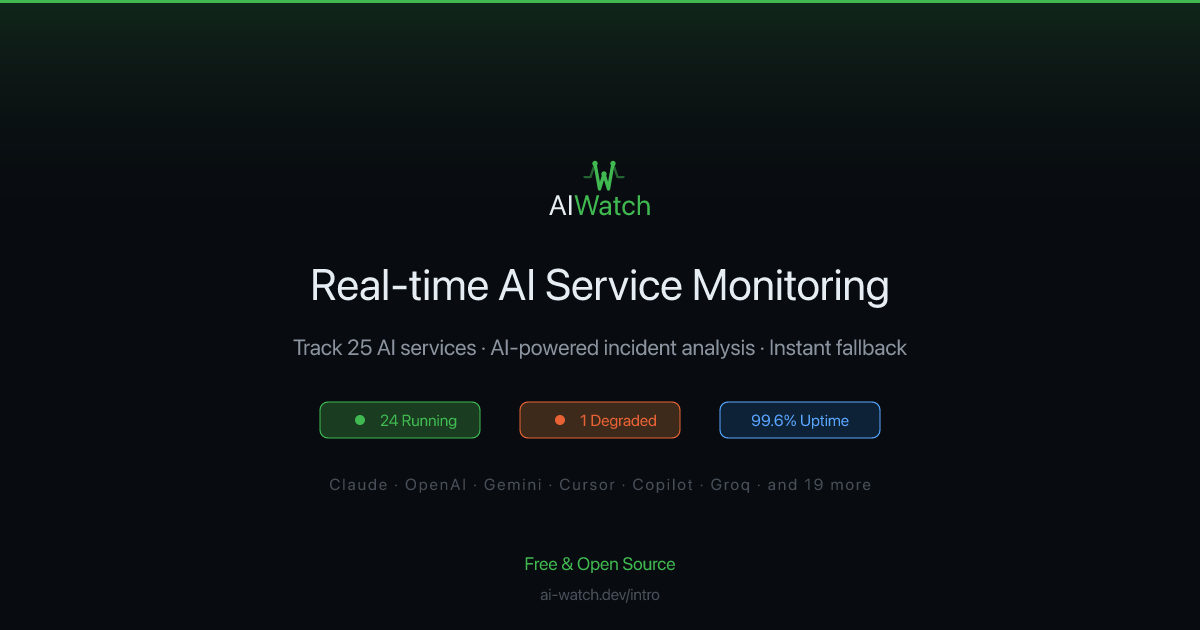
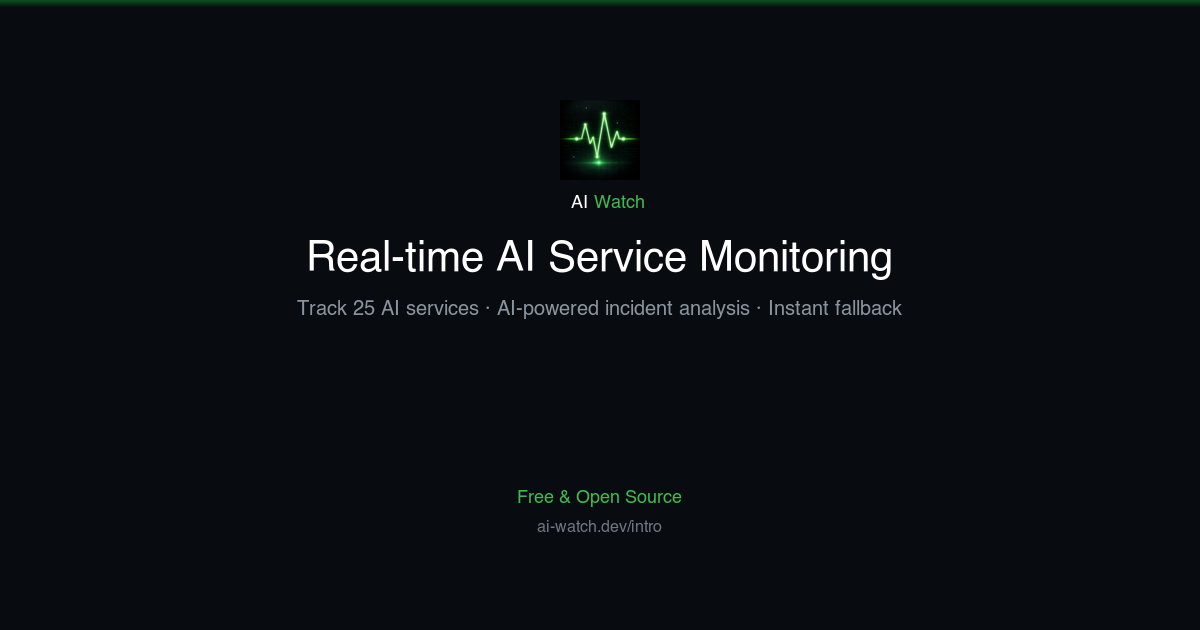
feat: unify OG image to og-intro.png + add GitHub social preview (#125)
- Unify og:image/twitter:image to og-intro.png (both dashboard & landing)
- Delete unused og-image.png
- Regenerate og-intro.png with new ECG waveform icon
- Add docs/social-preview.png (1280×640) for GitHub repo settings

refs #125

diff --git a/index.html b/index.html
@@ -14,9 +14,9 @@
     <meta property="og:url" content="https://ai-watch.dev/" />
     <meta property="og:title" content="AIWatch — 25개 AI 서비스 실시간 모니터링" />
     <meta property="og:description" content="Claude, ChatGPT, Gemini, Cursor 등 25개 AI 서비스 상태를 한눈에. 장애 발생 시 즉시 확인." />
-    <meta property="og:image" content="https://ai-watch.dev/og-image.png" />
+    <meta property="og:image" content="https://ai-watch.dev/og-intro.png" />
     <meta property="og:image:width" content="1200" />
-    <meta property="og:image:height" content="1200" />
+    <meta property="og:image:height" content="630" />
     <meta property="og:locale" content="ko_KR" />
     <meta property="og:site_name" content="AIWatch" />
 
@@ -25,7 +25,7 @@
     <meta name="twitter:url" content="https://ai-watch.dev/" />
     <meta name="twitter:title" content="AIWatch — 25개 AI 서비스 실시간 모니터링" />
     <meta name="twitter:description" content="Claude, ChatGPT, Gemini, Cursor 등 25개 AI 서비스 상태를 한눈에. 장애 발생 시 즉시 확인." />
-    <meta name="twitter:image" content="https://ai-watch.dev/og-image.png" />
+    <meta name="twitter:image" content="https://ai-watch.dev/og-intro.png" />
 
     <!-- Canonical & Additional -->
     <link rel="canonical" href="https://ai-watch.dev/" />
